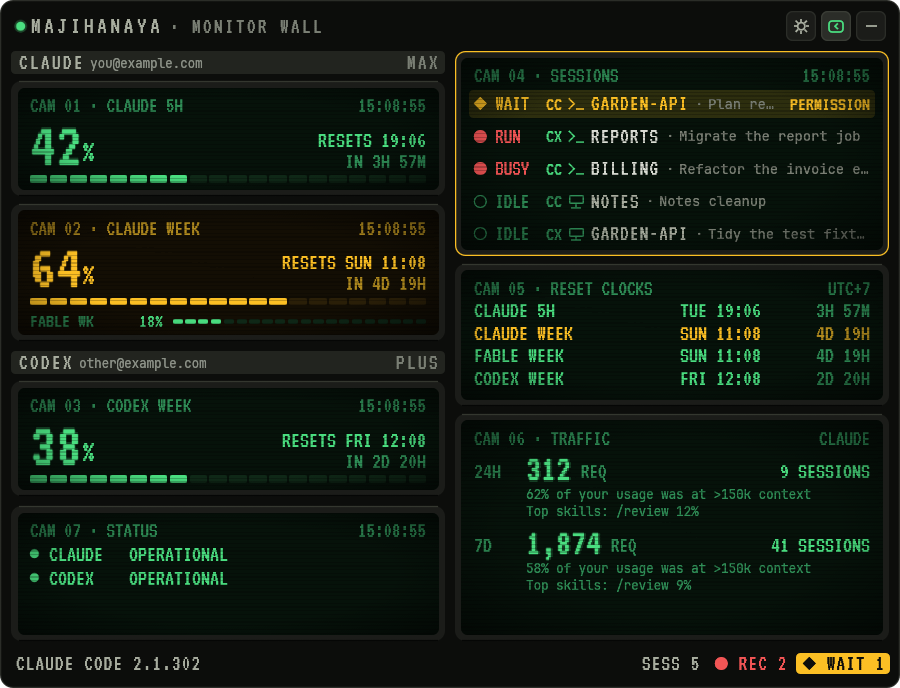
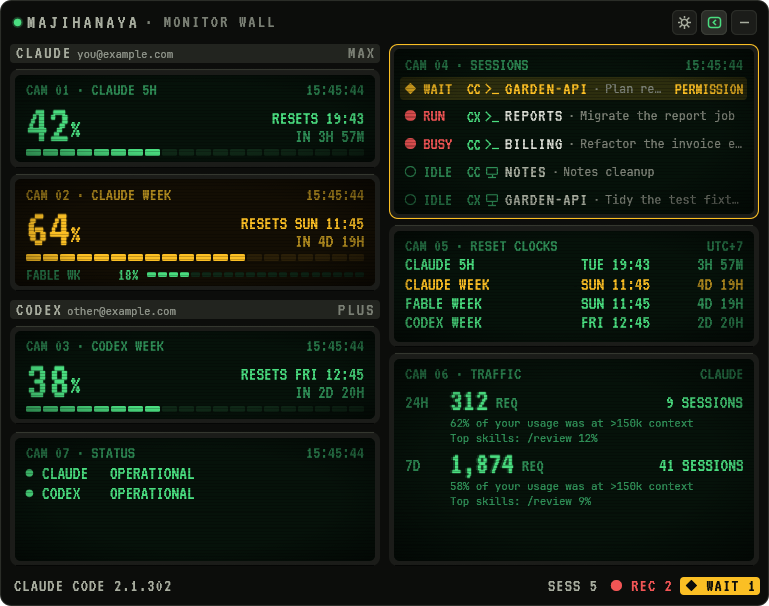
Window: smaller base scale, one size for details and settings
- "100%" now draws the whole app at 615/720 of the layout size, so the
  details and settings views are 615 px wide at 100% Windows scaling:
  45% of a 1366-wide laptop screen. Compact becomes 274 px. The Scale
  setting still reads 1.00x and Larger/Smaller step from there.
- Details and settings share one width (720 layout units) and the taller
  of their heights, so switching between them never resizes the window.
  Details gives the extra height to its status and traffic screens,
  settings puts it above its buttons.

README screenshots retaken at the new sizes. Bump to 0.1.6.

diff --git a/src/ui/mod.rs b/src/ui/mod.rs
@@ -24,9 +24,22 @@ use std::time::{Duration, Instant};
 use theme::{chrome, vt};
 
 pub const COMPACT_W: f32 = 320.0;
-pub const DETAILS_W: f32 = 720.0;
-/// Settings keep the design's 632: their two columns don't need more.
-pub const SETTINGS_W: f32 = 632.0;
+/// What "100%" (`scale = 1.0`) really draws at. The layout is designed in
+/// the units above; this shrinks the whole app so the wide views are 615 px
+/// at 100% Windows scaling: 45% of a 1366-wide laptop screen.
+pub const BASE_ZOOM: f32 = 615.0 / WIDE_W;
+
+/// egui's zoom for the user's `scale` setting.
+pub fn zoom(scale: f32) -> f32 {
+    scale * BASE_ZOOM
+}
+
+/// Every view other than compact (details, settings) is this wide, and as
+/// tall as the taller of them, so switching between them never resizes.
+pub const WIDE_W: f32 = 720.0;
+/// The settings view's height before it has been drawn (it never changes:
+/// its content is fixed), so details matches it from the start.
+const SETTINGS_H_GUESS: f32 = 567.5;
 const PAD: f32 = 8.0;
 const SWEEP: Duration = Duration::from_millis(400);
 const BURST_FRAMES: u32 = 3;
@@ -59,6 +72,9 @@ pub struct WindowUi {
     modes: HashMap<String, (std::mem::Discriminant<Mode>, Option<u32>)>,
     settings: Option<settings::Draft>,
     blink_epoch: Instant,
+    /// Natural (unstretched) heights of the wide views, last time drawn.
+    details_h: f32,
+    settings_h: f32,
 }
 
 impl WindowUi {
@@ -71,6 +87,8 @@ impl WindowUi {
             modes: HashMap::new(),
             settings: None,
             blink_epoch: Instant::now(),
+            details_h: 0.0,
+            settings_h: SETTINGS_H_GUESS,
         };
         // Debug builds only: start in another view, for screenshots.
         if cfg!(debug_assertions) {
@@ -96,10 +114,14 @@ impl WindowUi {
         let wall = feeds::wall(state, config, now, tz);
         let view_before = self.view;
         let mut actions = Vec::new();
-        let width = match self.view {
-            View::Compact => COMPACT_W,
-            View::Details => DETAILS_W,
-            View::Settings => SETTINGS_W,
+        let width = if self.view == View::Compact { COMPACT_W } else { WIDE_W };
+        // Wide views take on the difference to the taller one.
+        let stretch = match self.view {
+            View::Compact => 0.0,
+            // 0: not drawn yet, so its own height is unknown; no stretch.
+            View::Details if self.details_h == 0.0 => 0.0,
+            View::Details => (self.settings_h - self.details_h).max(0.0),
+            View::Settings => (self.details_h - self.settings_h).max(0.0),
         };
 
         let ctx = ui.ctx().clone();
@@ -124,10 +146,10 @@ impl WindowUi {
             self.title_bar(ui, &wall, config, &mut actions);
             match self.view {
                 View::Compact => self.compact(ui, &wall, blink_on),
-                View::Details => details::draw(ui, &self.tex, &wall, state, config, now, tz, blink_on, &|f| self_fx(&self.sweeps, &self.modes, f)),
+                View::Details => details::draw(ui, &self.tex, &wall, state, config, now, tz, blink_on, &|f| self_fx(&self.sweeps, &self.modes, f), stretch),
                 View::Settings => {
                     if let Some(draft) = &mut self.settings {
-                        match settings::draw(ui, draft) {
+                        match settings::draw(ui, draft, stretch) {
                             Some(settings::Outcome::Apply(cfg, autostart)) => {
                                 actions.push(Action::Apply(cfg, autostart));
                                 self.view = View::Compact;
@@ -144,6 +166,15 @@ impl WindowUi {
             }
         });
         let size = resp.response.rect.size();
+        // Remember this view's own height (what it is without the stretch),
+        // unless a click switched views mid-frame and this was the old one.
+        if self.view == view_before {
+            match self.view {
+                View::Details => self.details_h = size.y - stretch,
+                View::Settings => self.settings_h = size.y - stretch,
+                View::Compact => {}
+            }
+        }
 
         // A click switched views mid-frame: this frame was laid out for the
         // old one, so draw the new one right away.

diff --git a/src/main.rs b/src/main.rs
@@ -46,8 +46,10 @@ fn main() -> eframe::Result {
     let state: model::Shared = if demo { std::sync::Arc::new(std::sync::Mutex::new(demo::state())) } else { Default::default() };
     #[cfg(not(debug_assertions))]
     let state: model::Shared = Default::default();
-    // The design's compact window; resized to its content after the first frame.
-    let size = [ui::COMPACT_W, 440.0];
+    // The compact window at the app's zoom; resized to its content after the
+    // first frame.
+    let z = ui::zoom(config.scale);
+    let size = [ui::COMPACT_W * z, 440.0 * z];
     // Borderless + transparent: the app draws the design's rounded rack and
     // title bar itself, and opacity is a paint multiplier.
     let mut viewport = egui::ViewportBuilder::default()
@@ -150,7 +152,7 @@ impl App {
             RawWindowHandle::Win32(h) => Window::from_raw(h.hwnd.get()),
             _ => return Err("expected a Win32 window".into()),
         };
-        cc.egui_ctx.set_zoom_factor(config.scale);
+        cc.egui_ctx.set_zoom_factor(ui::zoom(config.scale));
         let saved_ok = config.left.zip(config.top).is_some_and(|(x, y)| platform::logical_on_screen(x, y));
         if !saved_ok {
             window.snap_to_tray_corner();
@@ -329,7 +331,7 @@ impl App {
             ctx.send_viewport_cmd(egui::ViewportCommand::WindowLevel(level));
         }
         if cfg.scale != self.config.scale {
-            ctx.set_zoom_factor(cfg.scale);
+            ctx.set_zoom_factor(ui::zoom(cfg.scale));
         }
         // Keep the saved position: the panel doesn't edit it.
         let (left, top) = (self.config.left, self.config.top);
@@ -350,7 +352,7 @@ impl App {
                 let step = if matches!(action, tray::Action::Larger) { 0.1 } else { -0.1 };
                 // Rounded so repeated steps don't drift (1.0999…).
                 self.config.scale = ((self.config.scale + step) * 10.0).round().clamp(7.5, 20.0) / 10.0;
-                ctx.set_zoom_factor(self.config.scale);
+                ctx.set_zoom_factor(ui::zoom(self.config.scale));
                 self.save_config();
             }
             tray::Action::Settings => {

diff --git a/src/ui/details.rs b/src/ui/details.rs
@@ -27,6 +27,8 @@ const TRAFFIC_MIN: f32 = 172.0;
 const RIGHT_GAP: f32 = 6.0;
 
 /// Draws the details body (everything between title bar and footer).
+/// `stretch`: extra height to take on, given to the screens that flex
+/// (status, traffic), so the window matches the settings view's height.
 #[allow(clippy::too_many_arguments)]
 pub fn draw(
     ui: &mut egui::Ui,
@@ -38,6 +40,7 @@ pub fn draw(
     tz: FixedOffset,
     blink_on: bool,
     fx: &dyn Fn(&Feed) -> Fx,
+    stretch: f32,
 ) {
     let col_w = (ui.available_width() - GAP) / 2.0;
     let left_used = sections_height(wall);
@@ -47,7 +50,7 @@ pub fn draw(
     let right_fixed = sessions_h + CLOCKS_H + BEZEL + RIGHT_GAP;
     let left_base = left_used + if config.show_status { left_gap + STATUS_MIN + BEZEL } else { 0.0 };
     let right_base = right_fixed + TRAFFIC_MIN + BEZEL;
-    let total = left_base.max(right_base);
+    let total = left_base.max(right_base) + stretch.max(0.0);
 
     let (area, _) = ui.allocate_exact_size(vec2(ui.available_width(), total), egui::Sense::hover());
     let left_rect = Rect::from_min_size(area.min, vec2(col_w, total));

diff --git a/src/ui/settings.rs b/src/ui/settings.rs
@@ -325,7 +325,9 @@ fn button(ui: &mut Ui, b: Btn, x: f32, y: f32, from_left: bool) -> (Response, f3
     (r, if from_left { rect.right() } else { rect.left() })
 }
 
-pub fn draw(ui: &mut Ui, draft: &mut Draft) -> Option<Outcome> {
+/// `stretch`: extra height to take on above the footer, so the window
+/// matches the details view's height.
+pub fn draw(ui: &mut Ui, draft: &mut Draft, stretch: f32) -> Option<Outcome> {
     let mut out = None;
     let saved = draft.saved.clone();
     let autostart_saved = draft.autostart_saved;
@@ -418,6 +420,9 @@ pub fn draw(ui: &mut Ui, draft: &mut Draft) -> Option<Outcome> {
     });
 
     // ---- footer ----
+    if stretch > 0.0 {
+        ui.add_space(stretch);
+    }
     let n = draft.changes();
     let (foot, _) = ui.allocate_exact_size(vec2(ui.available_width(), 36.0), Sense::hover());
     ui.painter().hline(foot.x_range(), foot.top() + 0.5, Stroke::new(1.0, chrome::BORDER));
